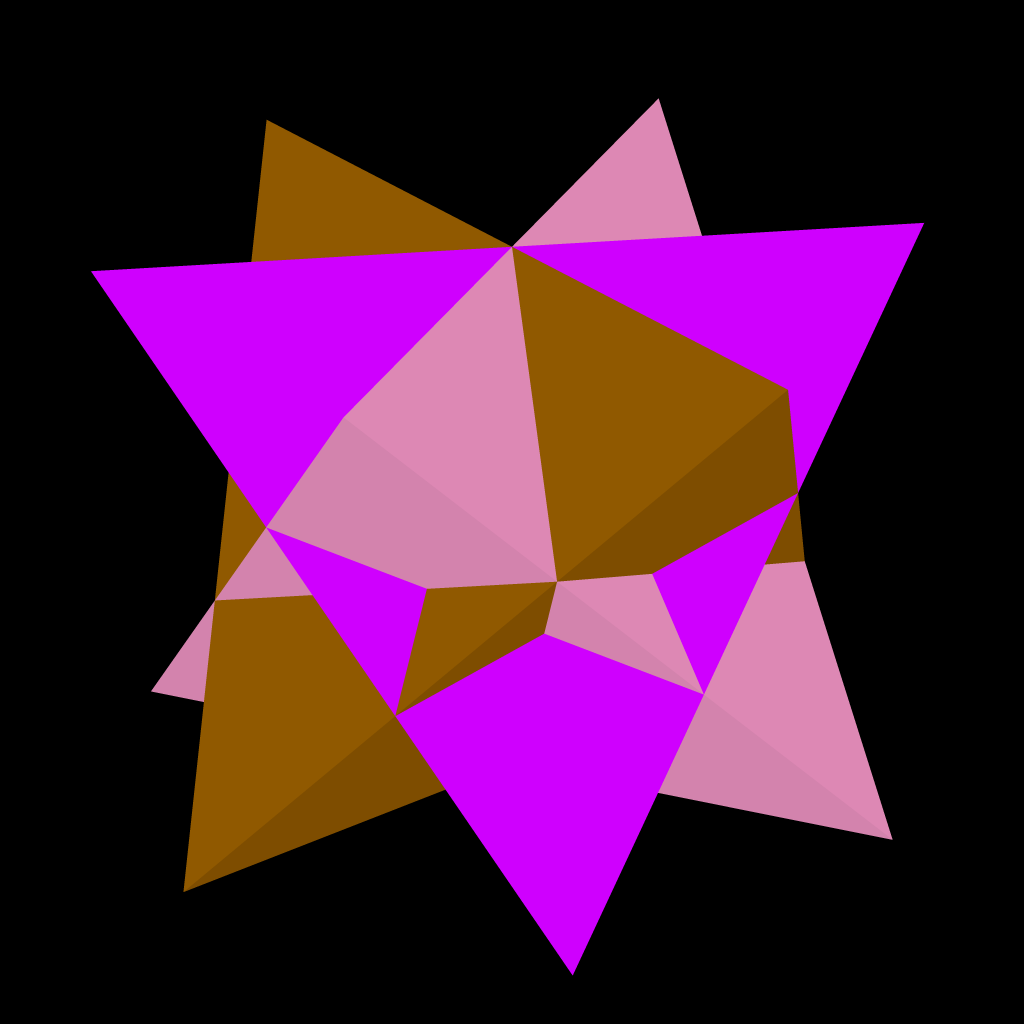
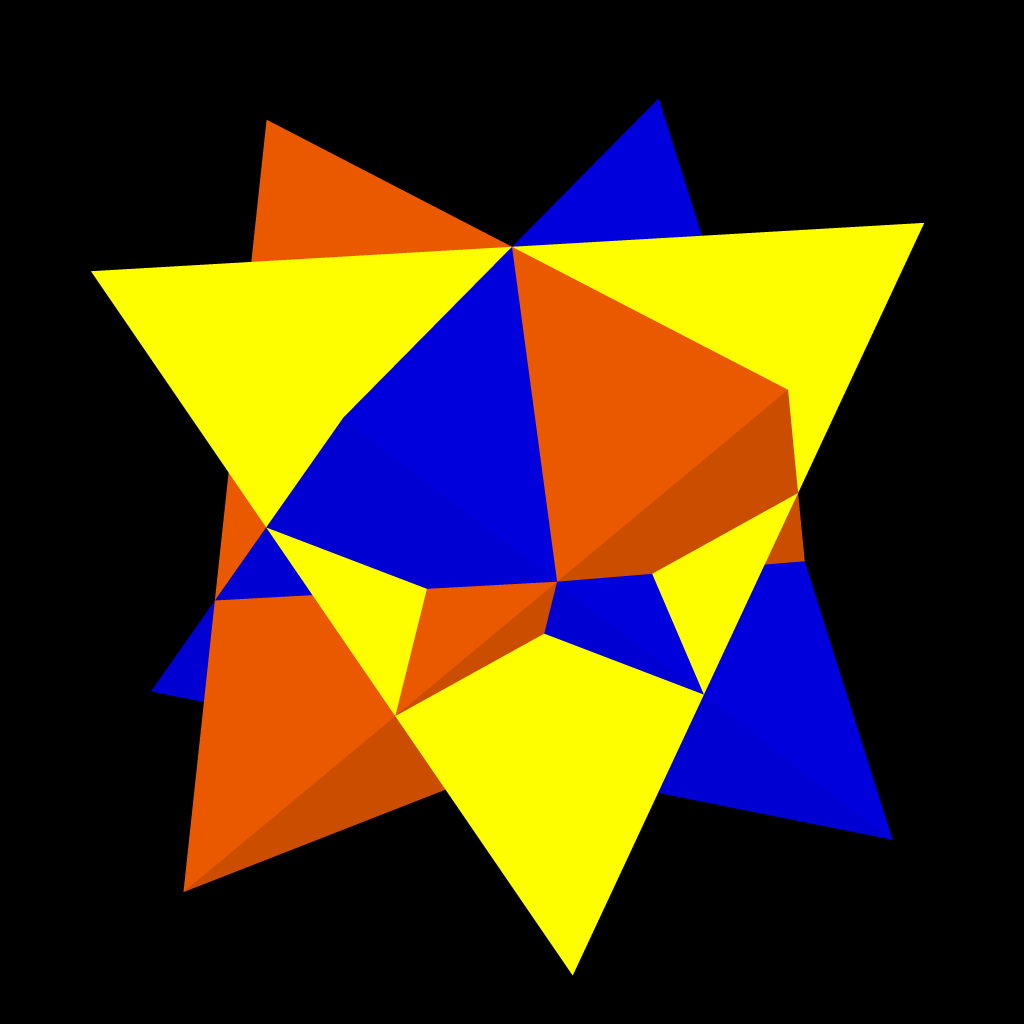
Changes to colouring prisms. Allow red/green alternation for rotating prismatic compounds, and allow N/2 colour cycles for prismatic compounds of N antiprisms.

diff --git a/PolyhedronRendering/src/xyz/stanforth/polyhedra/rendering/WorldBuilding.java b/PolyhedronRendering/src/xyz/stanforth/polyhedra/rendering/WorldBuilding.java
@@ -217,10 +217,21 @@ public final class WorldBuilding
   private static Transform dihedral2(final int symmetryGroup)
   {
     final int[] colours = new int[25];
+    for (int j = 0; j < colours.length; j += 1)
+      colours[j] = j;
+    // Sequence of colours with period N.
     for (int j = 0; j < symmetryGroup; j += 1)
       colours[j] = (symmetryGroup - j) % symmetryGroup;
-    for (int j = symmetryGroup; j < colours.length; j += 1)
-      colours[j] = j;
+    // Alternating pair of colours.
+    colours[15] = 18;
+    colours[18] = 15;
+    if (symmetryGroup % 2 == 0)
+      {
+        // Alternative sequence of colours with period N/2.
+        for (int j = 0; j < symmetryGroup / 2; j += 1)
+          colours[20 + j] = 20 + (symmetryGroup / 2 - j) % (symmetryGroup / 2);
+      }
+
     return Transform.of(
             new double[][] {
                     {1., 0., 0., 0.},
@@ -240,10 +251,21 @@ public final class WorldBuilding
   private static Transform dihedralN(final int symmetryGroup)
   {
     final int[] colours = new int[25];
+    for (int j = 0; j < colours.length; j += 1)
+      colours[j] = j;
+    // Sequence of colours with period N.
     for (int j = 0; j < symmetryGroup; j += 1)
       colours[j] = (j + 1) % symmetryGroup;
-    for (int j = symmetryGroup; j < colours.length; j += 1)
-      colours[j] = j;
+    // Alternating pair of colours.
+    colours[15] = 15;
+    colours[18] = 18;
+    if (symmetryGroup % 2 == 0)
+      {
+        // Alternative sequence of colours with period N/2.
+        for (int j = 0; j < symmetryGroup / 2; j += 1)
+          colours[20 + j] = 20 + (j + 1) % (symmetryGroup / 2);
+      }
+
     final double c = Math.cos(2.*Math.PI/symmetryGroup);
     final double s = Math.sin(2.*Math.PI/symmetryGroup);
     return Transform.of(
@@ -551,17 +573,17 @@ public final class WorldBuilding
     { // Palette 0: 11 distinct colors for icosidodecahedral faces
       { // Cuboctahedral
         PH_RED,PH_BROWN,PH_PINK,PH_GREEN,                         // octahedral
-                PH_YELLOW,PH_ORANGE,PH_BLUE,                              // hexahedral
-                PH_GREEN,PH_RED,                                          // tetrahedral
-                0,0,
-                PH_WHITE,PH_RED,PH_YELLOW,PH_BLUE,                        // fixed colors
-                0,0,0,0,PH_GREEN,PH_RED,PH_PURPLE,0,0,0
+        PH_YELLOW,PH_ORANGE,PH_BLUE,                              // hexahedral
+        PH_GREEN,PH_RED,                                          // tetrahedral
+        0,0,
+        PH_WHITE,PH_RED,PH_YELLOW,PH_BLUE,                        // fixed colors
+        0,0,0,0,PH_GREEN,PH_RED,PH_PURPLE,0,0,0
       },
       { // Icosidodecahedral
         PH_BROWN,PH_PINK,PH_PURPLE,PH_RED,PH_GREEN,               // icosahedral
-                PH_YELLOW,PH_CYAN,PH_BLUE,PH_DGREEN,PH_ORANGE,PH_IVORY,   // dodecahedral
-                PH_WHITE,PH_RED,PH_YELLOW,PH_BLUE,                        // fixed colors
-                PH_RED,PH_PINK,PH_BROWN,PH_GREEN,PH_PURPLE,PH_ORANGE,PH_YELLOW,PH_BLUE,PH_CYAN,PH_IVORY
+        PH_YELLOW,PH_CYAN,PH_BLUE,PH_DGREEN,PH_ORANGE,PH_IVORY,   // dodecahedral
+        PH_WHITE,PH_RED,PH_YELLOW,PH_BLUE,                        // fixed colors
+        PH_RED,PH_PINK,PH_BROWN,PH_GREEN,PH_PURPLE,PH_ORANGE,PH_YELLOW,PH_BLUE,PH_CYAN,PH_IVORY
         // icosahedral with
         //   one color for
         //   each plane
@@ -570,17 +592,17 @@ public final class WorldBuilding
     { // Palette 1: hexahedral and dodecahedral faces are white
       { // Cuboctahedral
         PH_RED,PH_YELLOW,PH_BLUE,PH_GREEN,                        // octahedral
-                PH_WHITE,PH_WHITE,PH_WHITE,                               // hexahedral
-                PH_GREEN,PH_RED,                                          // tetrahedral
-                0,0,
-                PH_WHITE,PH_RED,PH_YELLOW,PH_BLUE,                        // fixed colors
-                0,0,0,0,PH_GREEN,PH_RED,PH_PURPLE,0,0,0
+        PH_WHITE,PH_WHITE,PH_WHITE,                               // hexahedral
+        PH_GREEN,PH_RED,                                          // tetrahedral
+        0,0,
+        PH_WHITE,PH_RED,PH_YELLOW,PH_BLUE,                        // fixed colors
+        0,0,0,0,PH_GREEN,PH_RED,PH_PURPLE,0,0,0
       },
       { // Icosidodecahedral
         PH_YELLOW,PH_BLUE,PH_PINK,PH_RED,PH_GREEN,                // icosahedral
-                PH_WHITE,PH_WHITE,PH_WHITE,PH_WHITE,PH_WHITE,PH_WHITE,    // dodecahedral
-                PH_WHITE,PH_RED,PH_YELLOW,PH_BLUE,                        // fixed colors
-                PH_RED,PH_PINK,PH_BROWN,PH_GREEN,PH_PURPLE,PH_ORANGE,PH_YELLOW,PH_BLUE,PH_CYAN,PH_IVORY
+        PH_WHITE,PH_WHITE,PH_WHITE,PH_WHITE,PH_WHITE,PH_WHITE,    // dodecahedral
+        PH_WHITE,PH_RED,PH_YELLOW,PH_BLUE,                        // fixed colors
+        PH_RED,PH_PINK,PH_BROWN,PH_GREEN,PH_PURPLE,PH_ORANGE,PH_YELLOW,PH_BLUE,PH_CYAN,PH_IVORY
         // icosahedral with
         //   one color for
         //   each plane
@@ -589,17 +611,17 @@ public final class WorldBuilding
     { // Palette 2: octahedral and icosahedral faces are white
       { // Cuboctahedral
         PH_WHITE,PH_WHITE,PH_WHITE,PH_WHITE,                      // octahedral
-                PH_YELLOW,PH_RED,PH_BLUE,                                 // hexahedral
-                PH_GREEN,PH_PINK,                                         // tetrahedral
-                0,0,
-                PH_WHITE,PH_RED,PH_YELLOW,PH_BLUE,                        // fixed colors
-                0,0,0,0,PH_GREEN,PH_RED,PH_PURPLE,0,0,0
+        PH_YELLOW,PH_RED,PH_BLUE,                                 // hexahedral
+        PH_GREEN,PH_PINK,                                         // tetrahedral
+        0,0,
+        PH_WHITE,PH_RED,PH_YELLOW,PH_BLUE,                        // fixed colors
+        0,0,0,0,PH_GREEN,PH_RED,PH_PURPLE,0,0,0
       },
       { // Icosidodecahedral
         PH_WHITE,PH_WHITE,PH_WHITE,PH_WHITE,PH_WHITE,             // icosahedral
-                PH_YELLOW,PH_PINK,PH_BLUE,PH_GREEN,PH_ORANGE,PH_RED,      // dodecahedral
-                PH_WHITE,PH_RED,PH_YELLOW,PH_BLUE,                        // fixed colors
-                PH_RED,PH_PINK,PH_BROWN,PH_GREEN,PH_PURPLE,PH_ORANGE,PH_YELLOW,PH_BLUE,PH_CYAN,PH_IVORY
+        PH_YELLOW,PH_PINK,PH_BLUE,PH_GREEN,PH_ORANGE,PH_RED,      // dodecahedral
+        PH_WHITE,PH_RED,PH_YELLOW,PH_BLUE,                        // fixed colors
+        PH_RED,PH_PINK,PH_BROWN,PH_GREEN,PH_PURPLE,PH_ORANGE,PH_YELLOW,PH_BLUE,PH_CYAN,PH_IVORY
         // icosahedral with
         //   one color for
         //   each plane

diff --git a/PolyhedronRendering/src/xyz/stanforth/polyhedra/rendering/GenerateImage.java b/PolyhedronRendering/src/xyz/stanforth/polyhedra/rendering/GenerateImage.java
@@ -301,12 +301,11 @@ public final class GenerateImage
     generate(inputPath + "2p{5}.ph", 0, 0, true, outputPath + "2p{5}.png");
     generate(inputPath + "2p{52}.ph", 0, 0, true, outputPath + "2p{52}.png");
     generate(inputPath + "3p{3}.ph", 0, 0, true, outputPath + "3p{3}.png");
-    generateRotating(inputPath + "2p{3}.phr", 2.*Math.PI, 60, 0, 0, true, outputPath + "2p{3}.gif");
-    generateRotating(inputPath + "2{4_3}.phr", 2.*Math.PI, 80, 0, 0, true, outputPath + "2{4_3}.gif");
-    generateRotating(inputPath + "2p{5}.phr", 2.*Math.PI, 100, 0, 0, true, outputPath + "2p{5}.gif");
-    generateRotating(inputPath + "2p{52}.phr", 2.*Math.PI, 100, 0, 0, true, outputPath + "2p{52}.gif");
+    generateRotating(inputPath + "2p{3}.phr", 2.*Math.PI/3., 40, 0, 0, true, outputPath + "2p{3}.gif");
+    generateRotating(inputPath + "2{4_3}.phr", Math.PI/2., 40, 0, 0, true, outputPath + "2{4_3}.gif");
+    generateRotating(inputPath + "2p{5}.phr", 2.*Math.PI/5., 40, 0, 0, true, outputPath + "2p{5}.gif");
+    generateRotating(inputPath + "2p{52}.phr", 2.*Math.PI/5., 40, 0, 0, true, outputPath + "2p{52}.gif");
 
-    generateRotating(inputPath + "2{3_3}.phr", Math.PI, 40, 0, 0, true, outputPath + "2{3_3}.gif");
     generate(inputPath + "2{3_4}.ph", 0, 0, true, outputPath + "2{3_4}.png");
     generate(inputPath + "2a{4}.ph", 0, 0, true, outputPath + "2a{4}.png");
     generate(inputPath + "2a{5}.ph", 0, 0, true, outputPath + "2a{5}.png");
@@ -316,12 +315,13 @@ public final class GenerateImage
     generate(inputPath + "3{3_4}.ph", 0, 0, true, outputPath + "3{3_4}.png");
     generate(inputPath + "4{3_3}.ph", 0, 0, true, outputPath + "4{3_3}.png");
     generate(inputPath + "5{3_3}.ph", 0, 0, true, outputPath + "5{3_3}.png");
-    generateRotating(inputPath + "2{3_4}.phr", 2.*Math.PI, 60, 0, 0, true, outputPath + "2{3_4}.gif");
-    generateRotating(inputPath + "2a{4}.phr", 2.*Math.PI, 80, 0, 0, true, outputPath + "2a{4}.gif");
-    generateRotating(inputPath + "4{3_3}.phr", 2.*Math.PI, 80, 0, 0, true, outputPath + "4{3_3}.gif");
-    generateRotating(inputPath + "2a{5}.phr", 2.*Math.PI, 100, 0, 0, true, outputPath + "2a{5}.gif");
-    generateRotating(inputPath + "2a{52}.phr", 2.*Math.PI, 100, 0, 0, true, outputPath + "2a{52}.gif");
-    generateRotating(inputPath + "2a1{52}.phr", 2.*Math.PI, 100, 0, 0, true, outputPath + "2a1{52}.gif");
+    generateRotating(inputPath + "2{3_3}.phr", Math.PI, 40, 0, 0, true, outputPath + "2{3_3}.gif");
+    generateRotating(inputPath + "2{3_4}.phr", 2.*Math.PI/3., 40, 0, 0, true, outputPath + "2{3_4}.gif");
+    generateRotating(inputPath + "2a{4}.phr", Math.PI/2., 40, 0, 0, true, outputPath + "2a{4}.gif");
+    generateRotating(inputPath + "4{3_3}.phr", Math.PI/2., 40, 0, 0, true, outputPath + "4{3_3}.gif");
+    generateRotating(inputPath + "2a{5}.phr", 2.*Math.PI/5., 40, 0, 0, true, outputPath + "2a{5}.gif");
+    generateRotating(inputPath + "2a{52}.phr", 2.*Math.PI/5., 40, 0, 0, true, outputPath + "2a{52}.gif");
+    generateRotating(inputPath + "2a1{52}.phr", 2.*Math.PI/5., 40, 0, 0, true, outputPath + "2a1{52}.gif");
   }
 
   /**
